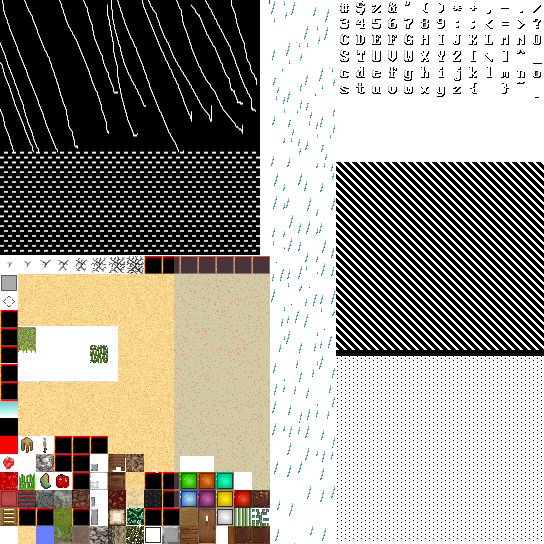
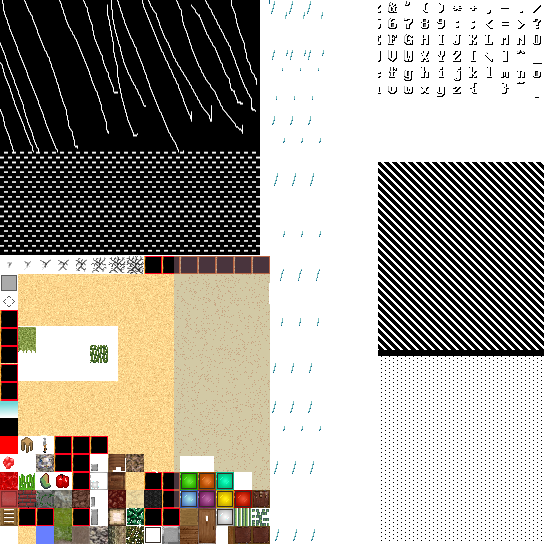
work on weather

diff --git a/lib/src/chunk.rs b/lib/src/chunk.rs
@@ -1752,7 +1752,7 @@ impl ChunkSystem {
 
                 //BEGIN ADD WEATHER PANES FOR RAIN/SNOW/ETC, nOT EVERY BLOCK
                 
-                if ((i * CW) + k) % 20 == 0  {
+                if ((i * CW) + k) % 8 == 0  {
                     let topy = match weatherstoptops.get(&vec::IVec2 {
                         x: i,
                         y: k,
@@ -1797,72 +1797,72 @@ impl ChunkSystem {
                     
 
                     vdata.extend_from_slice(&[
-                        spo.x as f32, spo.y as f32, spo.z as f32,              0.0 /*BLOCKLIGHT */, 14.0,
-                        spo.x as f32 + 1.0, spo.y as f32, spo.z as f32 + 1.0,   0.0 /*BLOCKLIGHT */, 14.0,
-                        spo.x as f32 + 1.0, spo.y as f32 + 128.0, spo.z as f32 + 1.0,   0.0 /*BLOCKLIGHT */, 14.0,
+                        spo.x as f32 - 1.0, spo.y as f32, spo.z as f32,              0.0 /*BLOCKLIGHT */, 14.0,
+                        spo.x as f32 + 2.0, spo.y as f32, spo.z as f32 + 2.0,   0.0 /*BLOCKLIGHT */, 14.0,
+                        spo.x as f32 + 2.0, spo.y as f32 + 128.0, spo.z as f32 + 2.0,   0.0 /*BLOCKLIGHT */, 14.0,
 
-                        spo.x as f32 + 1.0, spo.y as f32 + 128.0, spo.z as f32 + 1.0,   0.0 /*BLOCKLIGHT */, 14.0,
-                        spo.x as f32, spo.y as f32 + 128.0, spo.z as f32,   0.0 /*BLOCKLIGHT */, 14.0,
-                        spo.x as f32, spo.y as f32, spo.z as f32,              0.0 /*BLOCKLIGHT */, 14.0,
-
-
+                        spo.x as f32 + 2.0, spo.y as f32 + 128.0, spo.z as f32 + 2.0,   0.0 /*BLOCKLIGHT */, 14.0,
+                        spo.x as f32 - 1.0, spo.y as f32 + 128.0, spo.z as f32,   0.0 /*BLOCKLIGHT */, 14.0,
+                        spo.x as f32 - 1.0, spo.y as f32, spo.z as f32,              0.0 /*BLOCKLIGHT */, 14.0,
 
 
-                        spo.x as f32 + 1.0, spo.y as f32, spo.z as f32 + 1.0,   0.0 /*BLOCKLIGHT */, 14.0,
-                        spo.x as f32, spo.y as f32, spo.z as f32,              0.0 /*BLOCKLIGHT */, 14.0,
-                        spo.x as f32, spo.y as f32 + 128.0, spo.z as f32,   0.0 /*BLOCKLIGHT */, 14.0,
-
-                        spo.x as f32, spo.y as f32 + 128.0, spo.z as f32,   0.0 /*BLOCKLIGHT */, 14.0,
-                        spo.x as f32 + 1.0, spo.y as f32 + 128.0, spo.z as f32 + 1.0,   0.0 /*BLOCKLIGHT */, 14.0,
-                        spo.x as f32 + 1.0, spo.y as f32, spo.z as f32 + 1.0,   0.0 /*BLOCKLIGHT */, 14.0,
 
 
-                        spo.x as f32, spo.y as f32, spo.z as f32 + 1.0,              0.0 /*BLOCKLIGHT */, 14.0,
-                        spo.x as f32 + 1.0, spo.y as f32, spo.z as f32,              0.0 /*BLOCKLIGHT */, 14.0,
-                        spo.x as f32 + 1.0, spo.y as f32 + 128.0, spo.z as f32,              0.0 /*BLOCKLIGHT */, 14.0,
+                        spo.x as f32 + 2.0, spo.y as f32, spo.z as f32 + 2.0,   0.0 /*BLOCKLIGHT */, 14.0,
+                        spo.x as f32 - 1.0, spo.y as f32, spo.z as f32,              0.0 /*BLOCKLIGHT */, 14.0,
+                        spo.x as f32 - 1.0, spo.y as f32 + 128.0, spo.z as f32,   0.0 /*BLOCKLIGHT */, 14.0,
 
-                        spo.x as f32 + 1.0, spo.y as f32 + 128.0, spo.z as f32,              0.0 /*BLOCKLIGHT */, 14.0,
-                        spo.x as f32, spo.y as f32 + 128.0, spo.z as f32 + 1.0,              0.0 /*BLOCKLIGHT */, 14.0,
-                        spo.x as f32, spo.y as f32, spo.z as f32 + 1.0,              0.0 /*BLOCKLIGHT */, 14.0,
+                        spo.x as f32 - 1.0, spo.y as f32 + 128.0, spo.z as f32,   0.0 /*BLOCKLIGHT */, 14.0,
+                        spo.x as f32 + 2.0, spo.y as f32 + 128.0, spo.z as f32 + 2.0,   0.0 /*BLOCKLIGHT */, 14.0,
+                        spo.x as f32 + 2.0, spo.y as f32, spo.z as f32 + 2.0,   0.0 /*BLOCKLIGHT */, 14.0,
 
 
-                        spo.x as f32 + 1.0, spo.y as f32, spo.z as f32,              0.0 /*BLOCKLIGHT */, 14.0,
-                        spo.x as f32, spo.y as f32, spo.z as f32 + 1.0,              0.0 /*BLOCKLIGHT */, 14.0,
-                        spo.x as f32, spo.y as f32 + 128.0, spo.z as f32 + 1.0,              0.0 /*BLOCKLIGHT */, 14.0,
+                        spo.x as f32 - 1.0, spo.y as f32, spo.z as f32 + 2.0,              0.0 /*BLOCKLIGHT */, 14.0,
+                        spo.x as f32 + 2.0, spo.y as f32, spo.z as f32,              0.0 /*BLOCKLIGHT */, 14.0,
+                        spo.x as f32 + 2.0, spo.y as f32 + 128.0, spo.z as f32,              0.0 /*BLOCKLIGHT */, 14.0,
 
-                        spo.x as f32, spo.y as f32 + 128.0, spo.z as f32 + 1.0,              0.0 /*BLOCKLIGHT */, 14.0,
-                        spo.x as f32 + 1.0, spo.y as f32 + 128.0, spo.z as f32,              0.0 /*BLOCKLIGHT */, 14.0,
-                        spo.x as f32 + 1.0, spo.y as f32, spo.z as f32,              0.0 /*BLOCKLIGHT */, 14.0,
+                        spo.x as f32 + 2.0, spo.y as f32 + 128.0, spo.z as f32,              0.0 /*BLOCKLIGHT */, 14.0,
+                        spo.x as f32 - 1.0, spo.y as f32 + 128.0, spo.z as f32 + 2.0,              0.0 /*BLOCKLIGHT */, 14.0,
+                        spo.x as f32 - 1.0, spo.y as f32, spo.z as f32 + 2.0,              0.0 /*BLOCKLIGHT */, 14.0,
+
+
+                        spo.x as f32 + 2.0, spo.y as f32, spo.z as f32,              0.0 /*BLOCKLIGHT */, 14.0,
+                        spo.x as f32 - 1.0, spo.y as f32, spo.z as f32 + 2.0,              0.0 /*BLOCKLIGHT */, 14.0,
+                        spo.x as f32 - 1.0, spo.y as f32 + 128.0, spo.z as f32 + 2.0,              0.0 /*BLOCKLIGHT */, 14.0,
+
+                        spo.x as f32 - 1.0, spo.y as f32 + 128.0, spo.z as f32 + 2.0,              0.0 /*BLOCKLIGHT */, 14.0,
+                        spo.x as f32 + 2.0, spo.y as f32 + 128.0, spo.z as f32,              0.0 /*BLOCKLIGHT */, 14.0,
+                        spo.x as f32 + 2.0, spo.y as f32, spo.z as f32,              0.0 /*BLOCKLIGHT */, 14.0,
 
                     ]);
 
                     
                     uvdata.extend_from_slice(&[
                         face.blx, face.bly, 0.0, 0.0,
-                        face.brx, face.bry, 0.0, 0.0,
-                        face.brx, face.bly  - TEXTURE_WIDTH * 128.0  , 0.0, 0.0,
-                        face.brx, face.bly   - TEXTURE_WIDTH * 128.0  , 0.0, 0.0,
+                        face.brx + ONE_OVER_16 * 2.0, face.bry, 0.0, 0.0,
+                        face.brx + ONE_OVER_16 * 2.0, face.bly  - TEXTURE_WIDTH * 128.0  , 0.0, 0.0,
+                        face.brx + ONE_OVER_16 * 2.0, face.bly   - TEXTURE_WIDTH * 128.0  , 0.0, 0.0,
                         face.blx, face.bly   - TEXTURE_WIDTH * 128.0  , 0.0, 0.0,
                         face.blx, face.bly, 0.0, 0.0,
 
                         face.blx, face.bly, 0.0, 0.0,
-                        face.brx, face.bry, 0.0, 0.0,
-                        face.brx, face.bly  - TEXTURE_WIDTH * 128.0  , 0.0, 0.0,
-                        face.brx, face.bly   - TEXTURE_WIDTH * 128.0  , 0.0, 0.0,
+                        face.brx + ONE_OVER_16 * 2.0, face.bry, 0.0, 0.0,
+                        face.brx + ONE_OVER_16 * 2.0, face.bly  - TEXTURE_WIDTH * 128.0  , 0.0, 0.0,
+                        face.brx + ONE_OVER_16 * 2.0, face.bly   - TEXTURE_WIDTH * 128.0  , 0.0, 0.0,
                         face.blx, face.bly   - TEXTURE_WIDTH * 128.0  , 0.0, 0.0,
                         face.blx, face.bly, 0.0, 0.0,
 
                         face.blx, face.bly, 0.0, 0.0,
-                        face.brx, face.bry, 0.0, 0.0,
-                        face.brx, face.bly  - TEXTURE_WIDTH * 128.0  , 0.0, 0.0,
-                        face.brx, face.bly   - TEXTURE_WIDTH * 128.0  , 0.0, 0.0,
+                        face.brx + ONE_OVER_16 * 2.0, face.bry, 0.0, 0.0,
+                        face.brx + ONE_OVER_16 * 2.0, face.bly  - TEXTURE_WIDTH * 128.0  , 0.0, 0.0,
+                        face.brx + ONE_OVER_16 * 2.0, face.bly   - TEXTURE_WIDTH * 128.0  , 0.0, 0.0,
                         face.blx, face.bly   - TEXTURE_WIDTH * 128.0  , 0.0, 0.0,
                         face.blx, face.bly, 0.0, 0.0,
 
                         face.blx, face.bly, 0.0, 0.0,
-                        face.brx, face.bry, 0.0, 0.0,
-                        face.brx, face.bly  - TEXTURE_WIDTH * 128.0  , 0.0, 0.0,
-                        face.brx, face.bly   - TEXTURE_WIDTH * 128.0  , 0.0, 0.0,
+                        face.brx + ONE_OVER_16 * 2.0, face.bry, 0.0, 0.0,
+                        face.brx + ONE_OVER_16 * 2.0, face.bly  - TEXTURE_WIDTH * 128.0  , 0.0, 0.0,
+                        face.brx + ONE_OVER_16 * 2.0, face.bly   - TEXTURE_WIDTH * 128.0  , 0.0, 0.0,
                         face.blx, face.bly   - TEXTURE_WIDTH * 128.0  , 0.0, 0.0,
                         face.blx, face.bly, 0.0, 0.0,
                     ]);

diff --git a/lib/src/game.rs b/lib/src/game.rs
@@ -53,7 +53,7 @@ use crate::shader::Shader;
 use crate::specialblocks::door::{self, DoorInfo};
 use crate::statics::MY_MULTIPLAYER_UUID;
 use crate::texture::Texture;
-use crate::textureface::TextureFace;
+use crate::textureface::{TextureFace, ONE_OVER_16};
 use crate::tools::{get_block_material, get_tools_target_material, Material};
 use crate::vec::{self, IVec2, IVec3};
 use crate::voxmodel::JVoxModel;
@@ -3540,10 +3540,15 @@ impl Game {
                 cam_lock.direction.z,
             );
 
+
             
             gl::Uniform1f(
                 gl::GetUniformLocation(self.oldshader.shader_id, b"time\0".as_ptr() as *const i8),
                 glfwGetTime() as f32
+            );
+            gl::Uniform1f(
+                gl::GetUniformLocation(self.oldshader.shader_id, b"weathertype\0".as_ptr() as *const i8),
+                1.0 as f32
             );
     
             gl::Uniform1f(SUNSET_LOC, self.sunset_factor);
